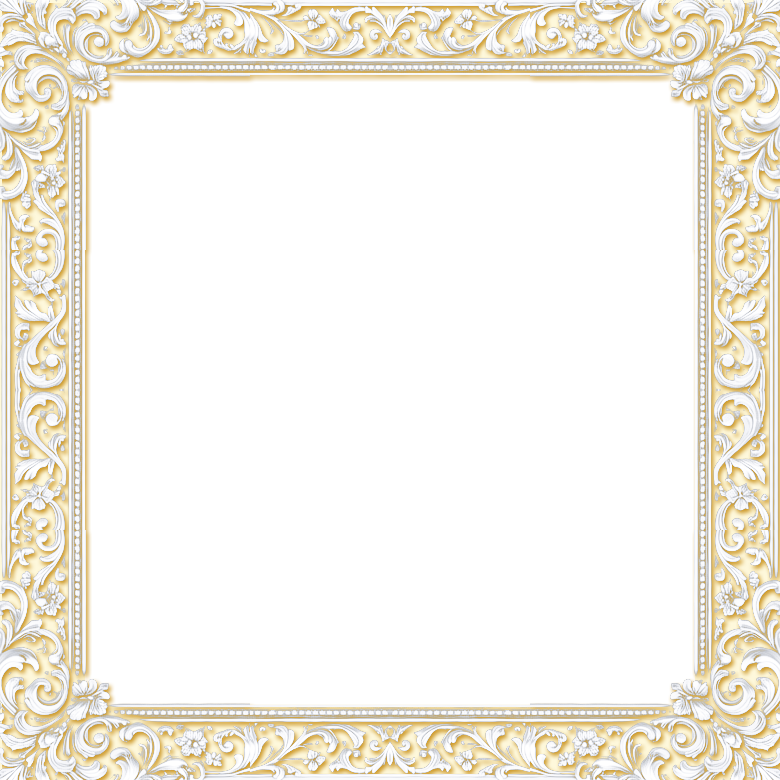
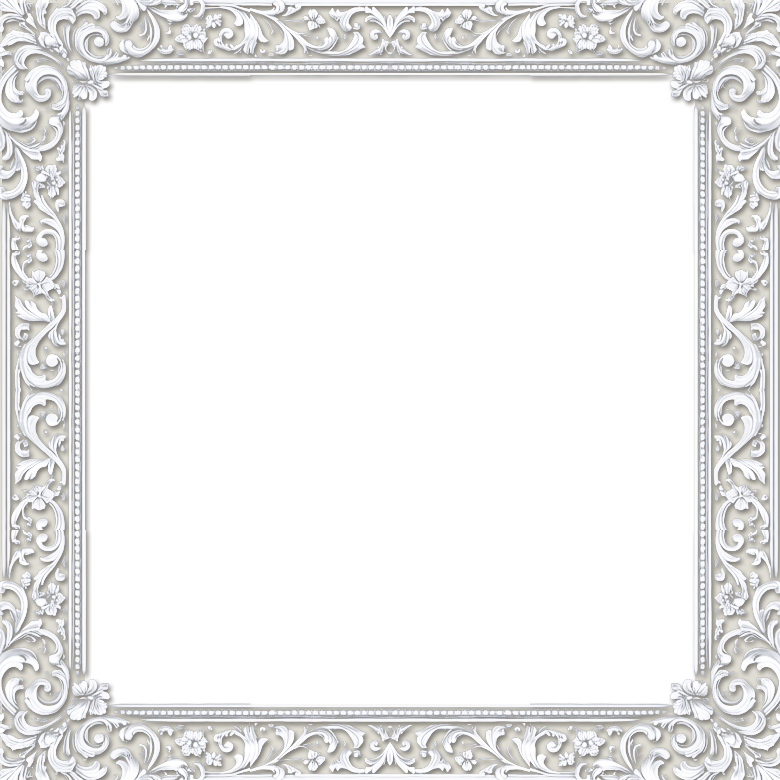
feat: GR frame ground 50% ivory white + 50% silver (#E0DED4), pattern shadow turned neutral grey

Changed region(s): [[0.0, 0.0, 1.0, 1.0]]

diff --git a/components/cards/CardFrame.tsx b/components/cards/CardFrame.tsx
@@ -11,7 +11,7 @@ export type Ornament = "dove" | "lily" | "ur" | "gr";
 /** The corner pieces are 34% of the ornament image; the middles repeat to fill each edge. (GR's image is 780 px wide with 250 px corners.) */
 const SLICE = 34;
 /** The GR frame picture is redrawn often: bump this so browsers fetch the new one instead of showing a cached copy. */
-const GR_FRAME_VERSION = 13;
+const GR_FRAME_VERSION = 14;
 const frameSrc = (art: Ornament) => (art === "gr" ? `/cards/frame-gr.png?v=${GR_FRAME_VERSION}` : `/cards/frame-${art}.png`);
 const sliceOf = (art: Ornament) => (art === "gr" ? "250" : `${SLICE}%`);
 /** UR: all seven neon colours across the card at once; the hues then keep cycling (bq-prism). */
